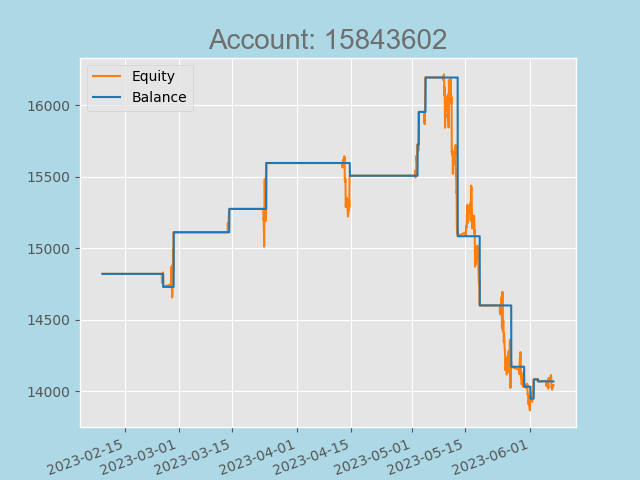
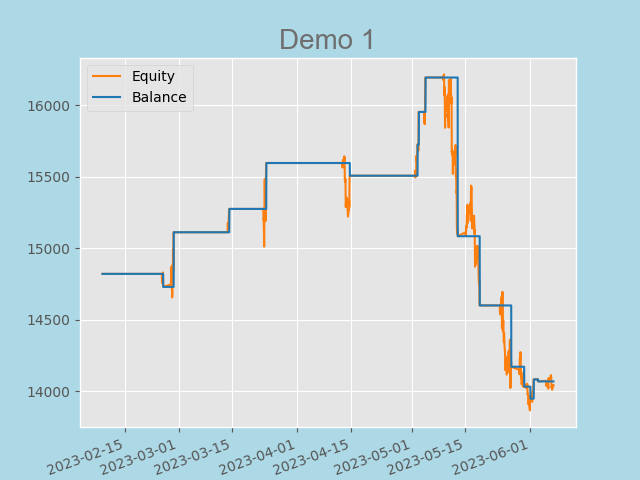
formating changes in reporting

Changed region(s): [[0.3125, 0.0625, 0.7188, 0.125]]

diff --git a/SavingAndReporting/Reporting/sending.py b/SavingAndReporting/Reporting/sending.py
@@ -1,10 +1,11 @@
 from config import telegram_token
 from SavingAndReporting.Reporting.images import make_image
 from SavingAndReporting.Saving.controllers.historic_controller import HistoricController
+from SavingAndReporting.Saving.controllers.account_controller import AccountController
 from telegram import Bot
 import asyncio
 from SavingAndReporting import imgs_path
-
+import re
 
 async def send_message(account_id: str, chat_id: str):
     make_image(account_id)
@@ -13,10 +14,11 @@ async def send_message(account_id: str, chat_id: str):
     equity_close = last_bar.get("equity_close")
     balance_open = last_bar.get("balance_open")
     balance_close = last_bar.get("balance_close")
-
-    caption = f'<b>Account:</b>         {account_id} \n' + \
-              f'<b>Balance:</b>          {str(equity_close)} ({round(equity_close / equity_open - 1, 2)}%)\n' + \
-              f'<b>Equity:</b>             {str(balance_close)} ({round(balance_close / balance_open - 1, 2)}%)'
+    account=AccountController.get_account(account_id)
+    currency=re.findall(r"\((.*?)\)",account.type_of_account)[0]
+    caption = f'<b>Account:</b>     {account_id} \n' + \
+              f'<b>Balance:</b>      ${"{:,.2f}".format(equity_close)} {currency} ({round(equity_close / equity_open - 1, 2)}%)\n' + \
+              f'<b>Equity:</b>         ${"{:,.2f}".format(balance_close)} {currency} ({round(balance_close / balance_open - 1, 2)}%)'
 
     bot = Bot(token=telegram_token)
     with open(imgs_path + account_id + ".png", "rb") as image_file:

diff --git a/SavingAndReporting/Reporting/images.py b/SavingAndReporting/Reporting/images.py
@@ -2,6 +2,7 @@ from SavingAndReporting.Saving.controllers.historic_controller import HistoricCo
 import pandas as pd
 import matplotlib.pyplot as plt
 from SavingAndReporting import imgs_path
+from config import portfolio_nicknames
 
 def make_image(id: str):
     historic = HistoricController.get_all_historic_rows(id)
@@ -15,8 +16,7 @@ def make_image(id: str):
     plt.plot(x, y2, label="Equity",color='tab:orange')
     plt.plot(x, y1, label="Balance",color='tab:blue')
     plt.xticks(rotation=20, ha='right')
-    plt.title('Account: '+id, fontname='Arial',color=(111/255,111/255,111/255),fontsize=20)
+    plt.title(portfolio_nicknames.get(id), fontname='Arial',color=(111/255,111/255,111/255),fontsize=20)
     plt.legend(loc="upper left")
     plt.savefig(imgs_path+id+".png")
-
 
